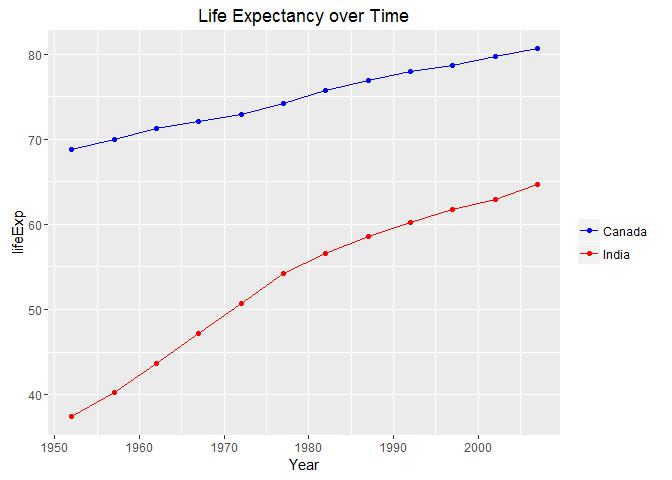
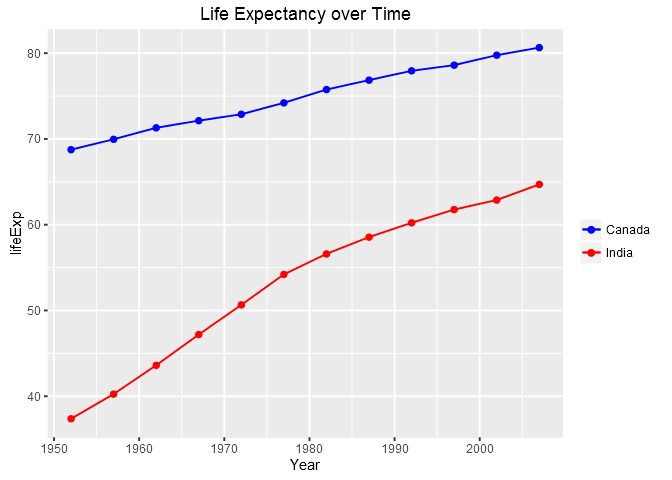
fixed antialiasing issue for hw4

diff --git a/hw04_tidy-data-joins/hw04_tidy-data-joins.md b/hw04_tidy-data-joins/hw04_tidy-data-joins.md
@@ -1,7 +1,7 @@
 Tidy data and joins
 ================
 Gokul Raj Suresh Kumar
-2016-10-11
+2016-10-18
 
 Tidying data and performing joins
 =================================
@@ -451,5 +451,7 @@ Reflections
 I got super curious and ended up solving multiple prompts. Apologies if my lengthy document having so many activities annoys the reviewer. Knowledge gained through this assignment was huge!
 
 Jenny's [ggplot2 tutorial](https://github.com/jennybc/ggplot2-tutorial) and her [Cheatsheet for dplyr join functions](http://stat545.com/bit001_dplyr-cheatsheet.html) were of massive help. I wonder how the figures in her tutorial look so polished ! I tried !
+
+Update\[18 Oct 2016\]: I was able to enable aliasing on windows using `Cairo` to get nice plots.
 
 I referred to [Beautiful plotting in R: A ggplot2 cheatsheet](http://www.cs.utexas.edu/~cannata/dataVis/Class%20Notes/Beautiful%20plotting%20in%20R_%20A%20ggplot2%20cheatsheet%20_%20Technical%20Tidbits%20From%20Spatial%20Analysis%20&%20Data%20Science.pdf) to manually set colors in plots.
